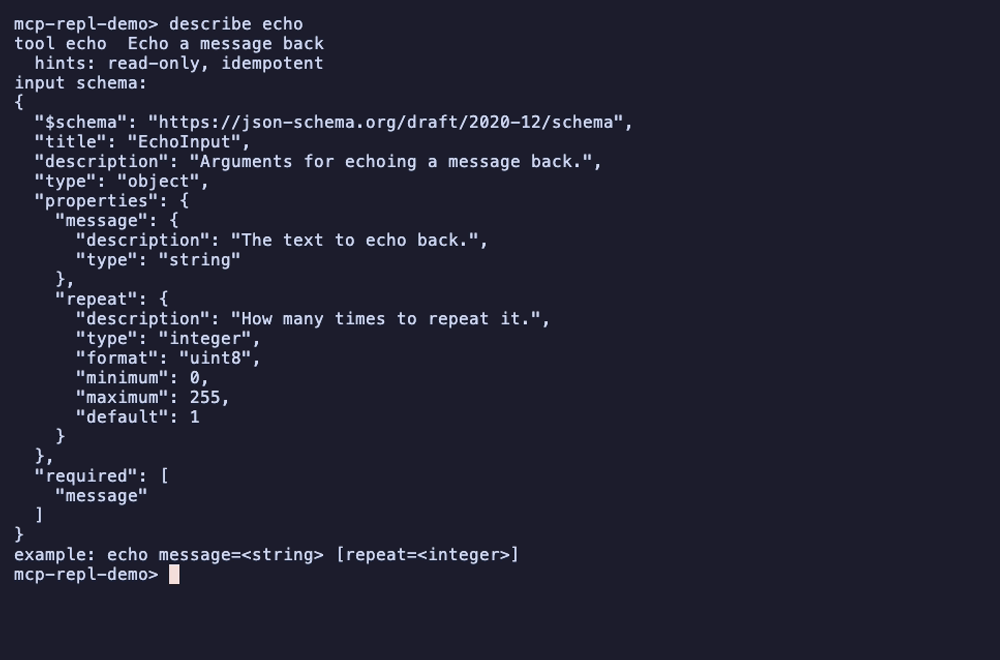
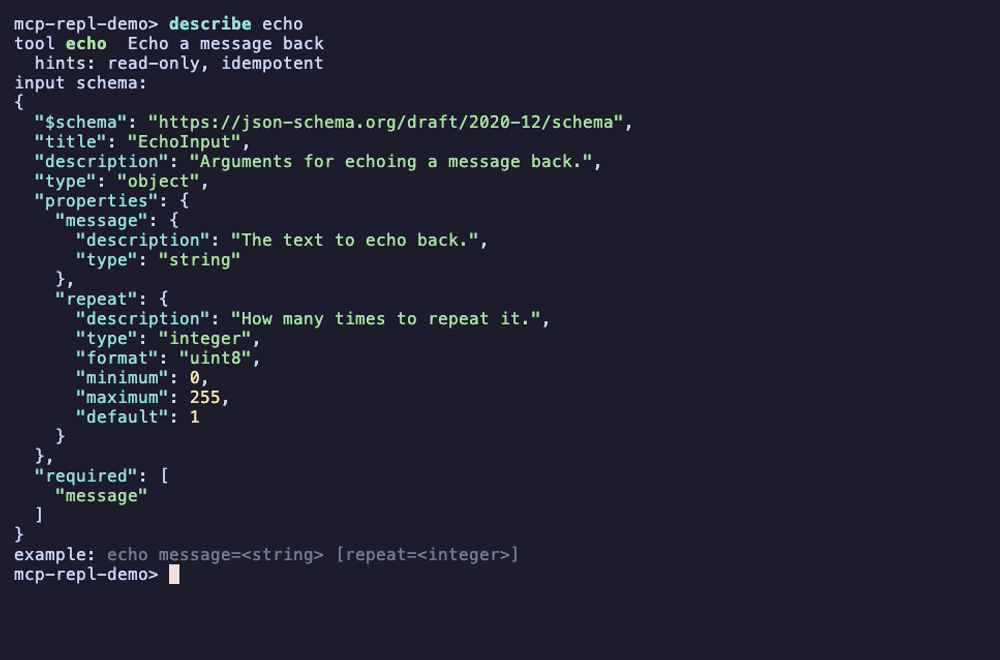
docs: make semantic colors deterministic in README recordings (#124)
Closes #123.

diff --git a/docs/tapes/README.md b/docs/tapes/README.md
@@ -20,6 +20,10 @@ Each tape uses the bundled demo, which needs no external server. Interactive
 tapes pass `--no-history`: without it reedline offers fish-style hints from
 whatever the author last typed, which makes the recording depend on the
 machine it was made on and can pre-fill lines the tape means to type out.
+Human-readable invocations also pass `--color always`, so a contributor's
+`NO_COLOR` or terminal detection cannot remove semantic colors from committed
+media. JSON stays uncolored until a successful parse; `jq -C` owns color in
+those pipelines.
 
 | Tape | Produces |
 | --- | --- |
